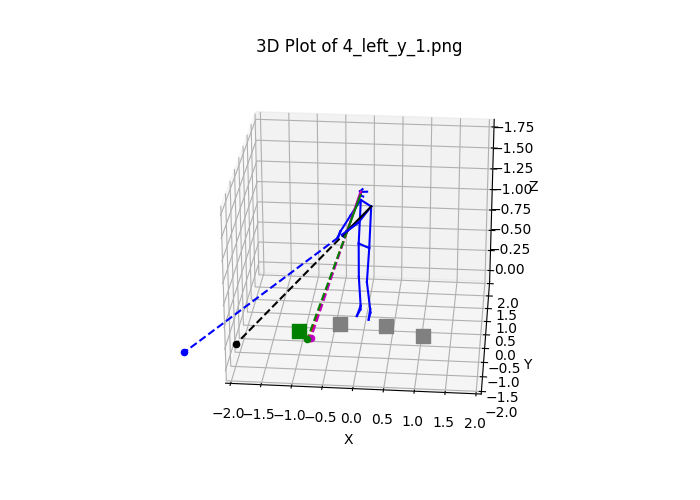
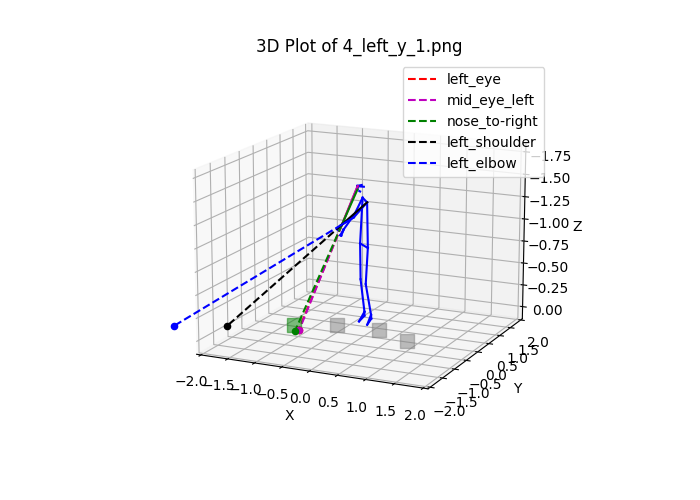
updated modeling

Changed region(s): [[0.24, 0.15, 0.81, 0.87], [0.57, 0.15, 0.6, 0.21], [0.48, 0.87, 0.51, 0.9]]

diff --git a/modeling.py b/modeling.py
@@ -60,16 +60,8 @@ color_list = {"left_eye": BLUE_COLOR, "right_eye": BLUE_COLOR, "mid_eye_left": '
 "mid_eye-right": 'm', "nose_to-left": GREEN_COLOR, "nose_to-right": GREEN_COLOR, "left_shoulder": BLACK_COLOR, 
 "right_shoulder": BLACK_COLOR, "left_elbow": RED_COLOR, "right_elbow": RED_COLOR}
 
-vector_list = ["left_eye", 
-           "right_eye",
-           "mid_eye_left",
-           "mid_eye-right",
-           "nose_to-left",
-           "nose_to-right",
-           "left_shoulder", 
-           "right_shoulder", 
-           "left_elbow",
-           "right_elbow"]
+vector_list = ["eye", "eyes ave.", "nose","shoulder", "elbow"]
+  
 
 output = {"image" : []}
 for i in range(len(ld["image"])):
@@ -89,7 +81,7 @@ for i in range(len(ld["image"])):
     # fig = plt.figure()
     # ax1 = fig.add_subplot(111, projection='3d')
     fig1 = plt.figure(figsize=(7, 5))
-    fig2 = plt.figure(figsize=(10, 5))
+    # fig2 = plt.figure(figsize=(10, 5))
     ax1 = fig1.add_subplot(111, projection='3d')
     # Get body coornidates for all joints
     lmk = pd.DataFrame(img["landmark_3D"])
@@ -107,8 +99,8 @@ for i in range(len(ld["image"])):
     ground = ground.drop(columns = bad_cols)
     vector = vector.drop(columns = bad_cols)
       
-    print("ground", ground)
-    print("vector", vector)
+    # print("ground", ground)
+    # print("vector", vector)
     offset = vaid["image"][i]["offset"]
     # # plot joint coordinates, y, z flipped
     # for name in lmk['landmark_name']:
@@ -133,7 +125,7 @@ for i in range(len(ld["image"])):
             c = 'green'
         else:
             c = 'grey'
-        ax1.scatter(x, z, y, marker = 's', color = c, s = 100, label = str(i+1))
+        ax1.scatter(x, z, y, marker = 's', color = c, alpha = 0.5, s = 100)
 
 
     # plot ground intersection & vector
@@ -159,7 +151,7 @@ for i in range(len(ld["image"])):
         ax1.scatter(x, z, y, color = c, marker = 'o')
 
     # plot connection vector
-    print(ground)
+    # print(ground)
     for name in ground:
         keywords = name.split("-") 
         component = keywords[0] # left_eye, right_eye, mid_eye, nose_to, left_shoulder, right_shoulder, left_elbow, right_elbow
@@ -208,7 +200,8 @@ for i in range(len(ld["image"])):
             to_ground_z = [end["z"].item(), ground[name][2]]
         c = color_list[component]
         ax1.plot(x, z, y, color=c)
-        ax1.plot(to_ground_x, to_ground_z, to_ground_y, color=c, linestyle='dashed')
+        ax1.plot(to_ground_x, to_ground_z, to_ground_y, color=c, linestyle='dashed', label = component)
+        ax1.legend()
 
     # plot pointing vectors
 
@@ -228,30 +221,30 @@ for i in range(len(ld["image"])):
     # ax1.w_zaxis.pane.fill = True  # Disable filling the z-ax1is plane
 
     # Set the view to have y as vertical and z pointing out
-    ax1.view_init(elev=-155, azim=85)
+    ax1.view_init(elev=-165, azim=65)
 
     # Set plot title
     ax1.set_title('3D Plot of %s'%img_name)
 
     # 2D distance plotting
-    ax2 = fig2.add_subplot(121)
-    ax3 = fig2.add_subplot(122)
-    ax2.grid(True)
-    ax2.set_axisbelow(True)
-    ax3.grid(True)
-    ax3.set_axisbelow(True)
+    # ax2 = fig2.add_subplot(121)
+    # ax3 = fig2.add_subplot(122)
+    # ax2.grid(True)
+    # ax2.set_axisbelow(True)
+    # ax3.grid(True)
+    # ax3.set_axisbelow(True)
 
 
     # plot target position
-    for i in range(len(targets)):
-        t = targets[i]
-        x = t[0]
-        y = t[2]
-        if i+1 == target:
-            c = 'green'
-        else:
-            c = 'grey'
-        ax2.scatter(x, y, marker = 's', color = c, s = 100, label = str(i+1))
+    # for i in range(len(targets)):
+    #     t = targets[i]
+    #     x = t[0]
+    #     y = t[2]
+    #     if i+1 == target:
+    #         c = 'green'
+    #     else:
+    #         c = 'grey'
+    #     ax2.scatter(x, y, marker = 's', color = c, s = 100, label = str(i+1))
         
 
     # plot ground intersection & vector
@@ -281,19 +274,20 @@ for i in range(len(ld["image"])):
         y = ground[name][2]
         c = c_list[component]
         #v = vector_list[i_temp]
-        ax2.scatter(x, y, color = c, marker = 'o')
+        # ax2.scatter(x, y, color = c, marker = 'o')
         x_values.append(abs(tx-x))
         y_values.append(abs(ty-x))
         dist_values.append(np.sqrt((tx-x)**2 + (ty-y)**2))
+
     image_output['vector_name'] = vector_list
     image_output['x_diff'] = x_values
     image_output['y_diff'] = y_values
     image_output['dist'] = dist_values
-    
+    print(image_output)
         
-    ax2.set_title("x-y plane visualization")
-    ax2.set_xlabel("X")
-    ax2.set_ylabel("Y")
+    # ax2.set_title("x-y plane visualization")
+    # ax2.set_xlabel("X")
+    # ax2.set_ylabel("Y")
     categories = vector_list
  
     # categories = ["eye", "eye(ave.)", "nose", "shoulder", "elbow"]
@@ -307,8 +301,8 @@ for i in range(len(ld["image"])):
     # ax3.set_title('distance distribution of vectors to target%i'%target)
     # ax3.set_ylabel('distance to target[m]')
 
-    # Show the plot
-    plt.subplots_adjust(bottom = 0.2)
+    # # Show the plot
+    # plt.subplots_adjust(bottom = 0.2)
     fig1.savefig(script_dir+'/plot/%s_3D.png'%img_name[0:len(img_name)-4])
     # fig2.savefig(script_dir+'/plot/%s_target_%i.png'%(img_name[0:len(img_name)-4],target))
     plt.legend()
